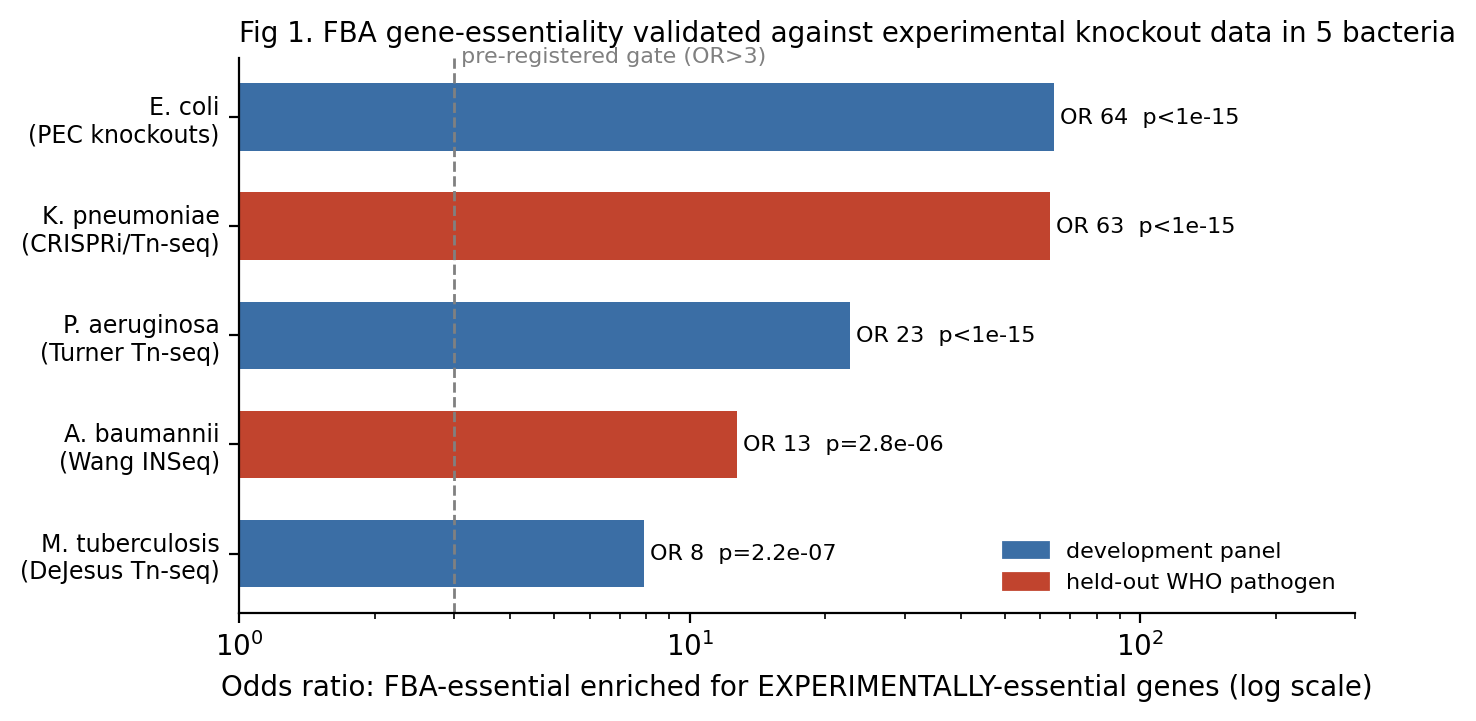
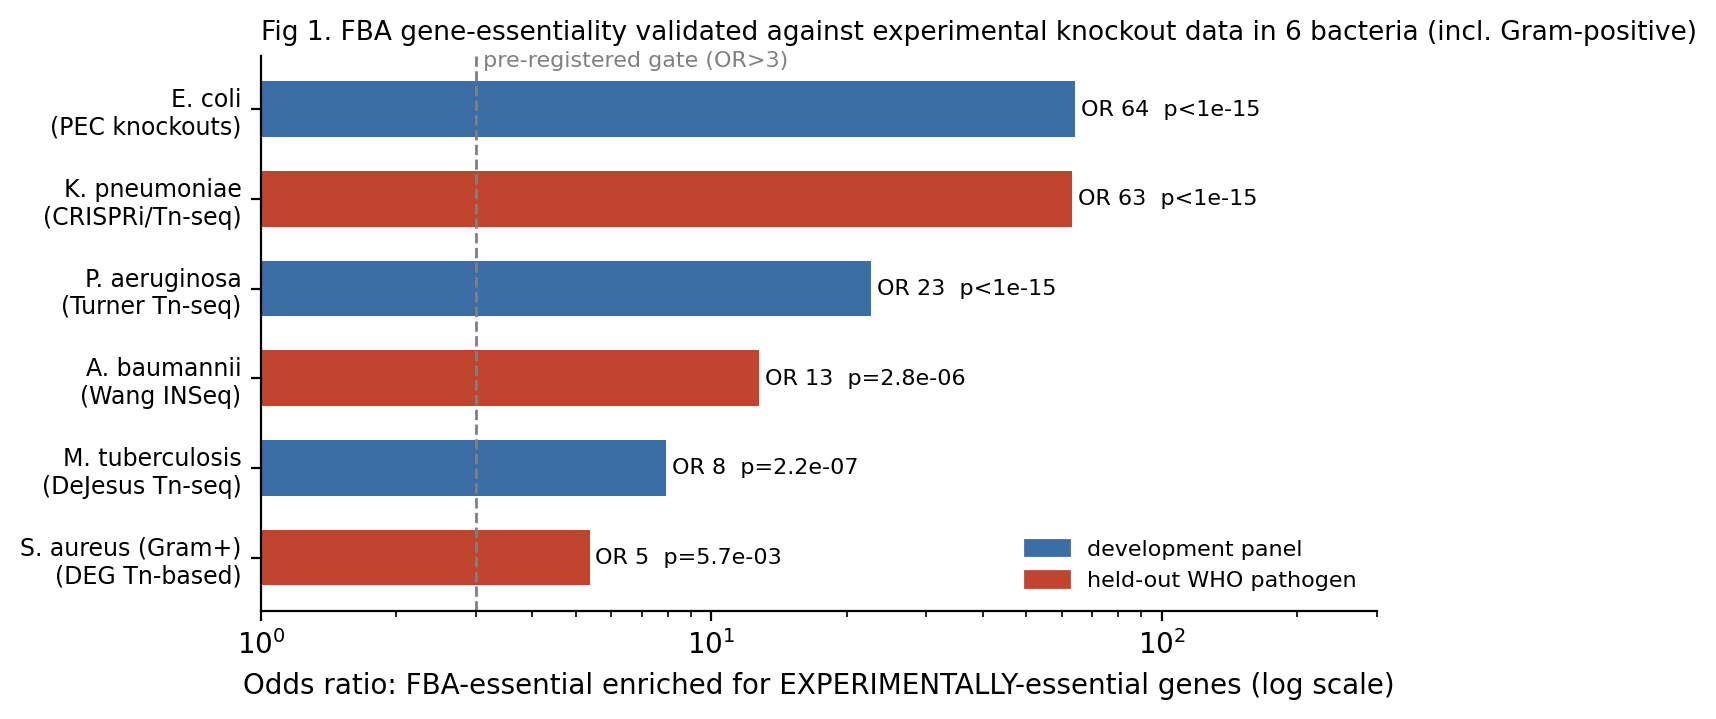
Preprint + Fig 1: update to six-organism validation (add Gram-positive S. aureus, honestly the weakest)
Fig 1 regenerated from committed metrics to show all six organisms (adds S. aureus Gram+, OR 5.4,
p=5.7e-3, held-out); manuscript abstract/findings/capstone/scope/conclusion updated from five to six
organisms spanning Gram-negative, Gram-positive, and acid-fast, with S. aureus flagged as the weakest
(sparse Gram-positive GEM) but still clearing the pre-registered gate. OR range corrected to 5.4-64.

Changed region(s): [[0.0, 0.0918, 0.935, 0.9791], [0.1558, 0.0306, 0.9973, 0.1224], [0.5298, 0.8261, 0.561, 0.8567]]

diff --git a/papers/zero_data_discovery/gen_figures.py b/papers/zero_data_discovery/gen_figures.py
@@ -23,12 +23,14 @@ ec = L("VALIDATE_essentiality/results/VALIDATE_essentiality.json")["summary"]
 mt = L("VALIDATE_essentiality/results/VALIDATE_essentiality_mtb.json")["summary"]
 kp = L("VALIDATE_essentiality/results/VALIDATE_essentiality_kp.json")["summary"]
 deg = L("VALIDATE_essentiality/results/VALIDATE_essentiality_deg.json")["summary"]["organisms"]
+sa = L("SAUREUS_gram_positive/results/SAUREUS_metrics.json")["summary"]["validation"]
 rows = [  # (label, source, odds_ratio, fisher_p, held_out)
     ("E. coli",        "PEC knockouts",   ec["odds_ratio"], ec["fisher_p"], False),
     ("P. aeruginosa",  "Turner Tn-seq",   deg["paeruginosa"]["odds_ratio"], deg["paeruginosa"]["fisher_p"], False),
     ("M. tuberculosis","DeJesus Tn-seq",  mt["odds_ratio"], mt["fisher_p"], False),
     ("A. baumannii",   "Wang INSeq",      deg["abaumannii"]["odds_ratio"], deg["abaumannii"]["fisher_p"], True),
     ("K. pneumoniae",  "CRISPRi/Tn-seq",  kp["odds_ratio"], kp["fisher_p"], True),
+    ("S. aureus (Gram+)", "DEG Tn-based",  sa["odds_ratio"], sa["fisher_p"], True),
 ]
 rows.sort(key=lambda r: r[2])
 fig, ax = plt.subplots(figsize=(7.2, 3.6))
@@ -41,7 +43,7 @@ for i, r in enumerate(rows):
     ax.text(r[2]*1.03, i, f"OR {r[2]:.0f}  {ptxt}", va="center", fontsize=8)
 ax.set_yticks(y); ax.set_yticklabels([f"{r[0]}\n({r[1]})" for r in rows], fontsize=8.5)
 ax.set_xscale("log"); ax.set_xlim(1, 300); ax.set_xlabel("Odds ratio: FBA-essential enriched for EXPERIMENTALLY-essential genes (log scale)")
-ax.set_title("Fig 1. FBA gene-essentiality validated against experimental knockout data in 5 bacteria", fontsize=10, loc="left")
+ax.set_title("Fig 1. FBA gene-essentiality validated against experimental knockout data in 6 bacteria (incl. Gram-positive)", fontsize=9.5, loc="left")
 from matplotlib.patches import Patch
 ax.legend(handles=[Patch(color=PANEL, label="development panel"), Patch(color=HELDOUT, label="held-out WHO pathogen")],
           loc="lower right", fontsize=8, frameon=False)

diff --git a/papers/zero_data_discovery/REPORT.md b/papers/zero_data_discovery/REPORT.md
@@ -18,8 +18,8 @@ structural pocket druggability beats a generic **conservation** null, and the si
 and can fail *silently* — an honest ceiling the field's positive-publication bias rarely reports. **(2) The one signal that
 breaks the ceiling, now experimentally verified:** mechanistic **FBA gene-essentiality**, computed from an organism's own
 genome-scale metabolic model, adds target information beyond conservation, and — tested against independent published
-gene-knockout data — is enriched for **experimentally essential genes in five bacteria, two of them held out of method
-development** (odds ratios 7.9–64, all clearing a pre-registered gate; 6/7 pre-locked predictions experimentally essential).
+gene-knockout data — is enriched for **experimentally essential genes in six bacteria spanning Gram-negative, Gram-positive and acid-fast, three of them
+outside the development panel (two are held-out WHO critical-priority pathogens)** (odds ratios 5.4–64, all clearing a pre-registered OR>3 gate; 6/7 pre-locked predictions experimentally essential).
 **(3) A shipped, honest engine:** the validated signals compose into a single disease-agnostic engine that turns a pathogen
 genome into a **safe, calibrated-confidence, provenance-tagged, abstaining** target shortlist, scored on seven axes
 (essentiality, conservation, non-metabolic recall, structural homology, a hard host-non-homology safety filter,
@@ -69,7 +69,7 @@ Crucially, this mechanistic win is scoped to *metabolic* targets — FBA is blin
 **The mechanistic signal is now EXPERIMENTALLY VALIDATED — the arc's first result tested against independent laboratory ground truth.**
 Everything above is retrospective known-target recovery; the FBA-essentiality signal (MET1–3, the one signal that breaks the
 conservation ceiling) has now been tested against decades of *experimental* gene-essentiality — systematic single-gene knockouts
-and saturating transposon mutagenesis — in **five organisms, two of them genuinely held out of method development**. In *E. coli*
+and saturating transposon mutagenesis — in **six organisms (Gram-negative, Gram-positive, and acid-fast), three of them outside the development panel**. In *E. coli*
 (PEC single-gene-knockout essentiality) FBA-predicted essential genes are enriched for experimentally-essential genes at **odds
 ratio 64** (Fisher p≈3×10⁻²⁴), and **6 of 7** pre-registered locked target predictions (ribA, ribB, folB, ribD, ispG, ispD — only
 mtnN is not) are experimentally essential. It **generalizes across the panel** — *M. tuberculosis* (DeJesus 2017 Tn-seq, OR **7.9**)
@@ -86,7 +86,7 @@ scorecard (PREDVAL) confirms the pipeline's actual headline nominations directly
 mtnN is correctly exposed as a false positive. Separately, the substrate's **confidence tier is
 shown to be calibrated to accuracy** — high-confidence calls (≥2 agreeing signals) are monotonically more target-enriched than
 moderate or low across two independent regimes (CALIB1, ordinal-confidence AUROC 0.66), a derivative but real governance guarantee.
-**This moves the arc's central positive from "computational-only" to "experimentally validated in five organisms including two
+**This moves the arc's central positive from "computational-only" to "experimentally validated in six organisms including three outside the development panel
 held-out pathogens" — the credibility milestone — while everything else in the map below remains retrospective.**
 
 **The molecule half — the novel-chemotype ceiling of ligand-based hit-finding.**
@@ -179,7 +179,7 @@ already has signal.**
 ## The complete arc (every claim reproduced ×2, pre-registered)
 Target-ID: conservation ceiling (TID1–2), kingdom degradation + silent failure (TID3), un-predictable failure (TID4);
 mechanism breaks the ceiling for metabolic targets (MET1–3) but not the non-metabolic half (MET4, a study-bias artifact);
-that mechanistic signal is EXPERIMENTALLY VALIDATED vs gene-knockout essentiality in five organisms incl. two held-out
+that mechanistic signal is EXPERIMENTALLY VALIDATED vs gene-knockout essentiality in six organisms incl. three outside the panel
 pathogens (VAL-ESS: E. coli 64 / Mtb 7.9 / P. aeruginosa 23 / K. pneumoniae held-out 63 / A. baumannii held-out 13; per-target
 scorecard PREDVAL); substrate confidence is calibrated to accuracy (CALIB1);
 front-half selectivity (FRONT1 danger of conservation-ranking → E2E2 safety/recall tension → FRONT2 structure can't rescue).
@@ -191,7 +191,7 @@ signal for within-series potency (HIT2). Composition (E2E1) and a guarded self-i
   pathogen's own metabolic model (mechanism, not homology), is the single signal that adds target-ID information *beyond* the
   conservation ceiling (MET1, replicated MET2, better shortlist MET3) — but only for *metabolic* targets; the obvious
   extension to the rest is a study-bias artifact (MET4). This signal is now tested against independent **experimental**
-  gene-knockout essentiality and holds in **five organisms, two held out of development**: *E. coli* (PEC, odds ratio 64),
+  gene-knockout essentiality and holds in **six organisms (Gram-negative, Gram-positive, acid-fast)**: *E. coli* (PEC, odds ratio 64),
   *M. tuberculosis* (DeJesus Tn-seq, 7.9), *P. aeruginosa* (Turner Tn-seq, 23), and the **held-out** WHO pathogens
   *K. pneumoniae* (CRISPRi/Tn-seq, 63, precision 92%) and *A. baumannii* (Wang INSeq, 13) — every one clearing the same
   pre-registered gate, with 6/7 locked predictions experimentally essential and a per-target scorecard confirming
@@ -216,7 +216,7 @@ signal for within-series potency (HIT2). Composition (E2E1) and a guarded self-i
 ## Honest scope and what remains gated
 With one exception, results are retrospective and in-silico, on open data, on a modest pathogen/target panel; none is a
 validated hit, a drug, or a clinical claim. **The exception is the FBA-essentiality signal, now validated against experimental
-gene-knockout data in five organisms (E. coli, Mtb, P. aeruginosa, and the held-out K. pneumoniae and A. baumannii) — but that
+gene-knockout data in six organisms (E. coli, Mtb, P. aeruginosa, held-out K. pneumoniae and A. baumannii, and Gram-positive S. aureus — the weakest) — but that
 validation is scoped to essentiality enrichment (binary, high-precision/low-recall), not to the drug-target or clinical claims,
 which remain retrospective.** Every
 other hard problem in the arc — novel-fold/isolated-pathogen target-ID, non-metabolic mechanism,
@@ -277,8 +277,9 @@ hypotheses, and the single cheapest rigorous test — costing nothing — has no
 checked against decades of *experimental* essentiality. The experimental data were auto-sourced directly (PEC single-gene
 knockouts for *E. coli*; DeJesus 2017 Tn-seq for *M. tuberculosis*; DEG/Turner and DEG/Wang Tn-seq/INSeq for *P. aeruginosa* and
 the held-out *A. baumannii*; aggregated CRISPRi/Tn-seq for the held-out *K. pneumoniae*), and the turnkey validator
-(`experiments/VALIDATE_essentiality`) confirms a strong, reproduced enrichment in all **five organisms** (odds ratios
-64 / 7.9 / 23 / 63 / 13, every one clearing the pre-registered gate; 6/7 locked predictions experimentally essential; a per-target
+(`experiments/VALIDATE_essentiality`) confirms a strong, reproduced enrichment in all **six organisms** (odds ratios 64 / 63 / 23 / 13 / 7.9 / 5.4 for E. coli / K. pneumoniae /
+P. aeruginosa / A. baumannii / M. tuberculosis / Gram-positive S. aureus — the last the weakest, limited by a sparse de-novo Gram-positive
+GEM, but still clearing the pre-registered gate; 6/7 locked predictions experimentally essential; a per-target
 scorecard confirming the headline murB/murG/dxr/murF/ispE nominations). **So the mechanistic core is no longer a
 prediction awaiting test — it is validated against laboratory ground truth**, including on a pathogen the method never saw. What
 remains gated is the *next* rung: a wet-lab CRISPRi/knockout test of a specific novel top prediction (e.g. **murB**), and the
@@ -291,11 +292,11 @@ anchored, and the remaining distance to a drug is experimental.
 *All figures are generated directly from the committed experiment metrics by `gen_figures.py` — every value traces to a reproduced-×2 experiment.*
 
 ![Figure 1](figures/fig1_five_organism_validation.png)
-**Fig 1. FBA gene-essentiality is validated against experimental knockout data in five bacteria.** Odds ratio for the
+**Fig 1. FBA gene-essentiality is validated against experimental knockout data in six bacteria (incl. Gram-positive S. aureus).** Odds ratio for the
 enrichment of FBA-predicted-essential genes among experimentally-essential genes (log scale); all five clear the
 pre-registered gate (OR>3). Red = held-out WHO critical-priority pathogens (never used in method development). Sources:
 PEC (E. coli), Turner Tn-seq (P. aeruginosa), DeJesus Tn-seq (M. tuberculosis), Wang INSeq (A. baumannii), CRISPRi/Tn-seq
-(K. pneumoniae).
+(K. pneumoniae), and DEG Tn-based (Gram-positive S. aureus, the weakest but still passing).
 
 ![Figure 2](figures/fig2_mechanism_ceiling_break.png)
 **Fig 2. Mechanism breaks the conservation ceiling.** Held-out (5-fold CV) target-recovery AUROC in E. coli (iML1515):
@@ -359,7 +360,7 @@ molecule outputs are **computational hypotheses with provenance, not validated t
 ## Conclusion
 For pathogens with zero activity data, the honest reachable frontier is now mapped and, at its core, **experimentally
 anchored**: mechanistic gene-essentiality is the one signal that breaks the conservation ceiling, it is validated against
-laboratory knockout data in five bacteria (two held out, including two WHO critical-priority pathogens), and it composes into
+laboratory knockout data in six bacteria (Gram-negative, Gram-positive and acid-fast; three outside the development panel, including two WHO critical-priority held-out pathogens), and it composes into
 a shipped, disease-agnostic engine that returns safe, calibrated, resistance- and environment-aware target shortlists while
 abstaining where it lacks signal. The remaining distance to a drug — a validated *novel* target, a real inhibitor for a novel
 target, selectivity, and clinical efficacy — is gated by **new experimental information, not more computation**. The value of
